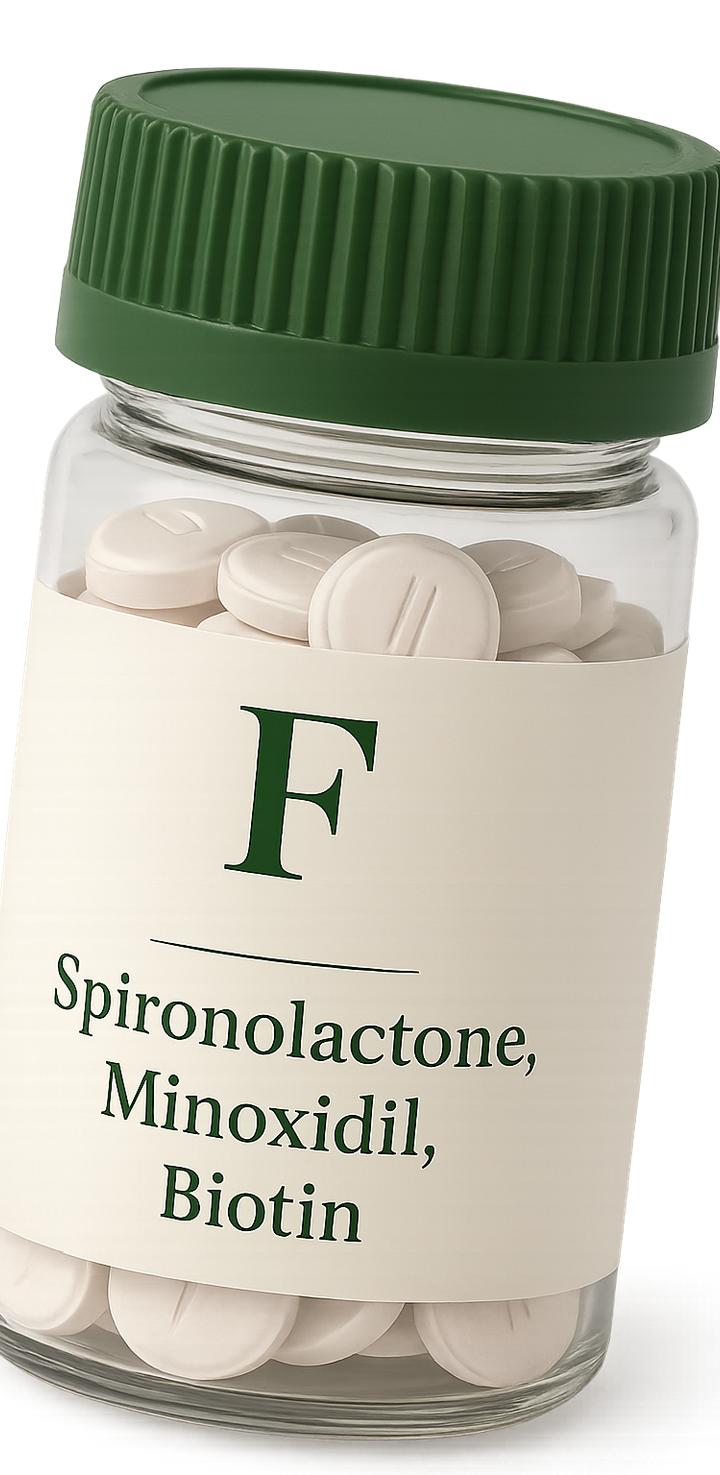
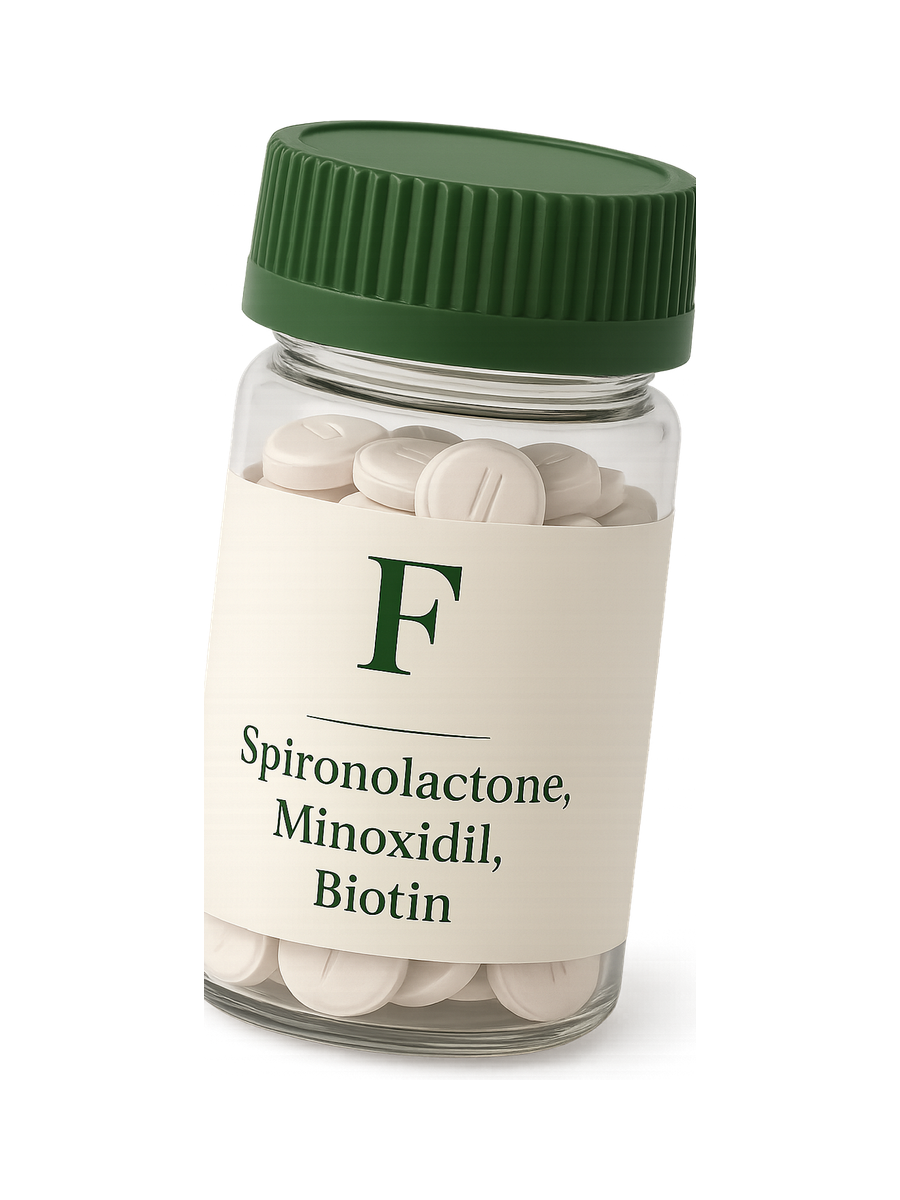
fix: dedupe product galleries + rescale willow tilted shot
After the price-seal removal, slide-price-* became visually identical to
the old straight product shot, so 10 duplicate slides were dropped from
the gallery arrays (image files kept on disk). product-willow-tilted.png
rebuilt on a 900x1200 canvas with the bottle at 80% height — it filled
100% of its canvas and rendered edge-to-edge next to its siblings.

diff --git a/public/assets/js/hl-script.js b/public/assets/js/hl-script.js
@@ -177,7 +177,6 @@ var Tawk_API = Tawk_API || {},
             // any copy change).
             images: [
                 "/assets/hl/slide-price-cedar.webp",
-                "/assets/hl/product-cedar-straight.png",
                 "/assets/hl/product-cedar-pills.webp",
                 "/assets/hl/product-cedar-tilted.png",
                 "/assets/hl/slide-included.webp",
@@ -215,7 +214,6 @@ var Tawk_API = Tawk_API || {},
             // Brello-style slides — see cedar's comment above.
             images: [
                 "/assets/hl/slide-price-ivy.webp",
-                "/assets/hl/product-ivy.png",
                 "/assets/hl/product-ivy-pills.webp",
                 "/assets/hl/product-ivy-tilted.png",
                 "/assets/hl/slide-included.webp",
@@ -251,7 +249,6 @@ var Tawk_API = Tawk_API || {},
             // Brello-style slides — see cedar's comment above.
             images: [
                 "/assets/hl/slide-price-willow.webp",
-                "/assets/hl/product1.png",
                 "/assets/hl/product-willow-pills.webp",
                 "/assets/hl/product-willow-tilted.png",
                 "/assets/hl/slide-included.webp",

diff --git a/public/assets/js/longevity.js b/public/assets/js/longevity.js
@@ -28,7 +28,6 @@
             images: [
                 "/assets/l/slide-price-sermorelin.webp",
                 "/assets/l/sermorelin.png",
-                "/assets/l/sermorelin-angle2.webp",
                 "/assets/l/slide-included.webp",
                 "/assets/l/slide-benefits.webp",
                 "/assets/shared/slide-journey.webp",
@@ -57,7 +56,6 @@
             images: [
                 "/assets/l/slide-price-nad.webp",
                 "/assets/l/nad+.png",
-                "/assets/l/nad-angle2.webp",
                 "/assets/l/slide-included.webp",
                 "/assets/l/slide-benefits.webp",
                 "/assets/shared/slide-journey.webp",
@@ -84,7 +82,6 @@
             images: [
                 "/assets/l/slide-price-glutathione.webp",
                 "/assets/l/glutathione.png",
-                "/assets/l/glutathione-angle2.webp",
                 "/assets/l/slide-included.webp",
                 "/assets/l/slide-benefits.webp",
                 "/assets/shared/slide-journey.webp",

diff --git a/public/assets/js/wl-script.js b/public/assets/js/wl-script.js
@@ -24,7 +24,6 @@
             // regeneration).
             images: [
                 "/assets/wl/slide-price-semaglutide.webp",
-                "/assets/wl/semag-straight.png",
                 "/assets/wl/product2.png",
                 "/assets/wl/semag.png",
                 "/assets/wl/slide-included.webp",
@@ -52,8 +51,6 @@
             // Brello-style slides — see semaglutide's comment above.
             images: [
                 "/assets/wl/slide-price-tirzepatide.webp",
-                "/assets/wl/tirzz-straight.png",
-                "/assets/wl/tirzz-angle2.webp",
                 "/assets/wl/tirzz.png",
                 "/assets/wl/slide-included.webp",
                 "/assets/wl/slide-telehealth.webp",

diff --git a/public/assets/js/sw-script.js b/public/assets/js/sw-script.js
@@ -28,7 +28,6 @@
             // any copy change).
             images: [
                 "/assets/sw/slide-price-tadalafil.webp",
-                "/assets/sw/product1.png",
                 "/assets/sw/product2.svg",
                 "/assets/sw/slide-included.webp",
                 "/assets/sw/slide-benefits.webp",
@@ -56,7 +55,6 @@
             // Brello-style slides — see tadalafil's comment above.
             images: [
                 "/assets/sw/slide-price-olympus.webp",
-                "/assets/sw/product1-olympus.png",
                 "/assets/sw/product2-olympus.png",
                 "/assets/sw/slide-included.webp",
                 "/assets/sw/slide-benefits.webp",
